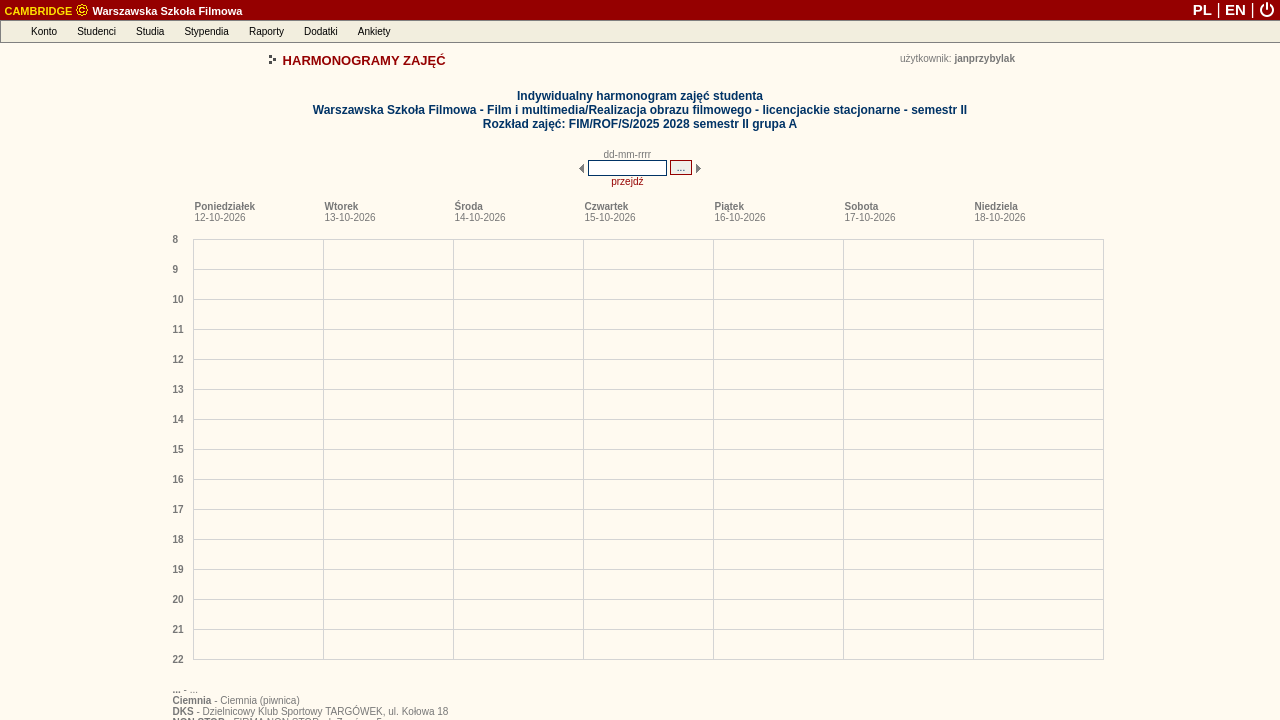
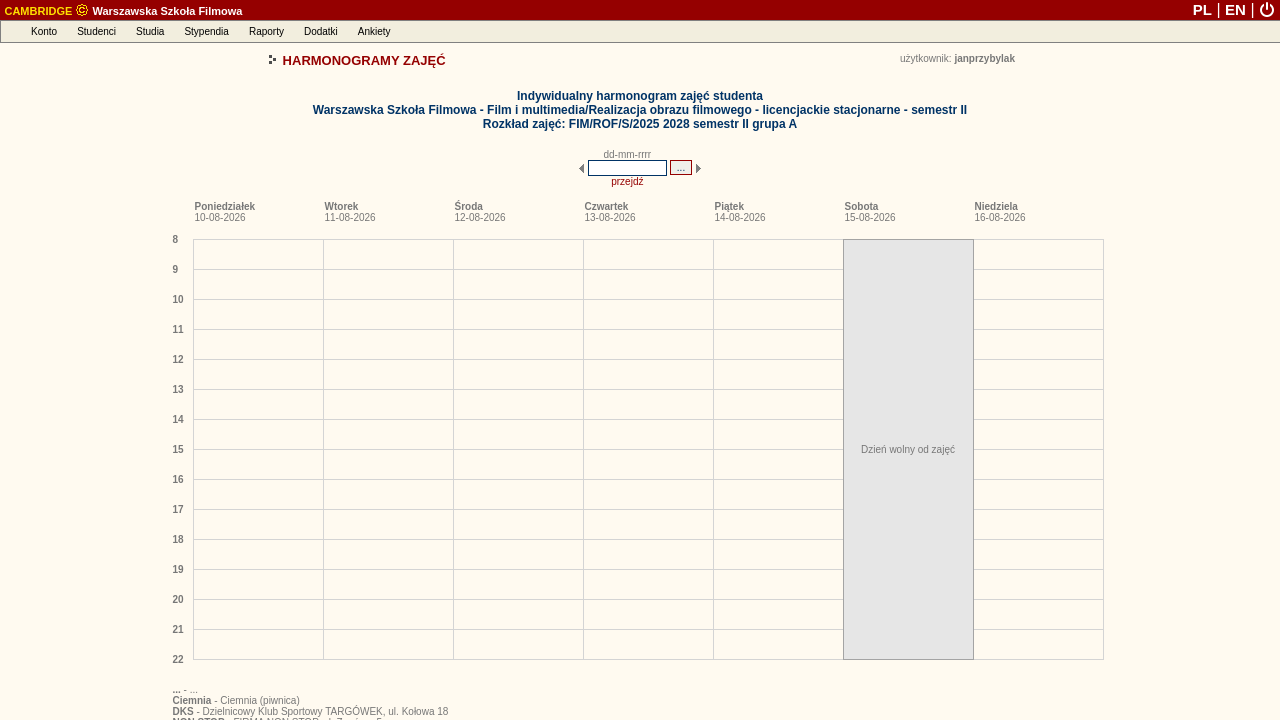
deploy: 8388f10947971c2f889917b94371ad6a4cd86213

Changed region(s): [[0.6562, 0.3056, 0.7812, 0.9167]]

diff --git a/debug_harmonogram_page.html b/debug_harmonogram_page.html
@@ -163,8 +163,8 @@
 
 
 
-<link rel="stylesheet" type="text/css" href="/palio/html.run?_Instance=cambridge&amp;_PageID=4&amp;_SessionID=1727084&amp;_SessionKey=201555191&amp;ZoomView=&amp;DisplayMode=&amp;_CheckSum=2033157716">
-<script language="javascript" type="text/javascript" src="/palio/html.run?_Instance=cambridge&amp;_PageID=5&amp;_SessionID=1727084&amp;_SessionKey=201555191&amp;_CheckSum=-705604010"></script>
+<link rel="stylesheet" type="text/css" href="/palio/html.run?_Instance=cambridge&amp;_PageID=4&amp;_SessionID=1727158&amp;_SessionKey=1953367357&amp;ZoomView=&amp;DisplayMode=&amp;_CheckSum=-1352251698">
+<script language="javascript" type="text/javascript" src="/palio/html.run?_Instance=cambridge&amp;_PageID=5&amp;_SessionID=1727158&amp;_SessionKey=1953367357&amp;_CheckSum=1512590138"></script>
 
 
 
@@ -354,9 +354,9 @@ CambridgeMenuBar = new jsDOMenuBar("absolute", true)
 
 AccountMenu=new jsDOMenu(200, "", "absolute", false);
 
-AccountMenu.addMenuItem(new menuItem("Zmiana hasła", "", "/palio/html.run?_Instance=cambridge&amp;_PageID=11&amp;_SessionID=1727084&amp;_SessionKey=201555191&amp;_CheckSum=1992248005"));
+AccountMenu.addMenuItem(new menuItem("Zmiana hasła", "", "/palio/html.run?_Instance=cambridge&amp;_PageID=11&amp;_SessionID=1727158&amp;_SessionKey=1953367357&amp;_CheckSum=-753343317"));
 
-  AccountMenu.addMenuItem(new menuItem("Komunikator", "", "/palio/html.run?_Instance=cambridge&amp;_PageID=180&amp;_SessionID=1727084&amp;_SessionKey=201555191&amp;_CheckSum=-666117750"));
+  AccountMenu.addMenuItem(new menuItem("Komunikator", "", "/palio/html.run?_Instance=cambridge&amp;_PageID=180&amp;_SessionID=1727158&amp;_SessionKey=1953367357&amp;_CheckSum=-1558303098"));
 
 
 
@@ -369,7 +369,7 @@ AccountMenu.addMenuItem(new menuItem("Yammer", "", "https://www.yammer.com/onlin
 
 AccountMenu.addMenuItem(new menuItem("-"));
 
-AccountMenu.addMenuItem(new menuItem("Wylogowanie", "", "https://student.szkolafilmowa.pl/palio/html.run?_Instance=cambridge&amp;_PageID=10012&amp;_Action=Logout&amp;_SessionID=1727084&amp;_SessionKey=201555191"));
+AccountMenu.addMenuItem(new menuItem("Wylogowanie", "", "https://student.szkolafilmowa.pl/palio/html.run?_Instance=cambridge&amp;_PageID=10012&amp;_Action=Logout&amp;_SessionID=1727158&amp;_SessionKey=1953367357"));
 
 CambridgeMenuBar.addMenuBarItem(new menuBarItem("Konto", AccountMenu));
 
@@ -382,12 +382,12 @@ StudentsMenu=new jsDOMenu(320, "", "absolute", false);
 
 
 
-StudentsMenu.addMenuItem(new menuItem("Moje dane", "", "/palio/html.run?_Instance=cambridge&amp;_PageID=185&amp;_SessionID=1727084&amp;_SessionKey=201555191&amp;_CheckSum=-1808791921"));
+StudentsMenu.addMenuItem(new menuItem("Moje dane", "", "/palio/html.run?_Instance=cambridge&amp;_PageID=185&amp;_SessionID=1727158&amp;_SessionKey=1953367357&amp;_CheckSum=1673503265"));
 
 
 
 
-StudentsMenu.addMenuItem(new menuItem("Moje indeksy", "", "/palio/html.run?_Instance=cambridge&amp;_PageID=186&amp;_SessionID=1727084&amp;_SessionKey=201555191&amp;_CheckSum=-1178333296"));
+StudentsMenu.addMenuItem(new menuItem("Moje indeksy", "", "/palio/html.run?_Instance=cambridge&amp;_PageID=186&amp;_SessionID=1727158&amp;_SessionKey=1953367357&amp;_CheckSum=-257115840"));
 
 
 
@@ -426,7 +426,7 @@ StudiesMenu=new jsDOMenu(250, "", "absolute", false);
 
 
 
-StudiesMenu.addMenuItem(new menuItem("Moje plany studiów", "", "/palio/html.run?_Instance=cambridge&amp;_PageID=258&amp;_SessionID=1727084&amp;_SessionKey=201555191&amp;_CheckSum=1859823862"));
+StudiesMenu.addMenuItem(new menuItem("Moje plany studiów", "", "/palio/html.run?_Instance=cambridge&amp;_PageID=258&amp;_SessionID=1727158&amp;_SessionKey=1953367357&amp;_CheckSum=-563524454"));
 
 
 
@@ -434,13 +434,13 @@ StudiesMenu.addMenuItem(new menuItem("Moje plany studiów", "", "/palio/html.run
 
 
 
-StudiesMenu.addMenuItem(new menuItem("Harmonogramy zajęć", "", "/palio/html.run?_Instance=cambridge&amp;_PageID=95&amp;_SessionID=1727084&amp;_SessionKey=201555191&amp;_CheckSum=1954031553"));
+StudiesMenu.addMenuItem(new menuItem("Harmonogramy zajęć", "", "/palio/html.run?_Instance=cambridge&amp;_PageID=95&amp;_SessionID=1727158&amp;_SessionKey=1953367357&amp;_CheckSum=-1938053329"));
 
-StudiesMenu.addMenuItem(new menuItem("Harmonogramy moich zajęć", "", "/palio/html.run?_Instance=cambridge&amp;_PageID=191&amp;_SessionID=1727084&amp;_SessionKey=201555191&amp;_CheckSum=-1966278230"));
+StudiesMenu.addMenuItem(new menuItem("Harmonogramy moich zajęć", "", "/palio/html.run?_Instance=cambridge&amp;_PageID=191&amp;_SessionID=1727158&amp;_SessionKey=1953367357&amp;_CheckSum=1086394982"));
 
-StudiesMenu.addMenuItem(new menuItem("Harmonogramy innych zajęć", "", "/palio/html.run?_Instance=cambridge&amp;_PageID=248&amp;_SessionID=1727084&amp;_SessionKey=201555191&amp;_CheckSum=-504524329"));
+StudiesMenu.addMenuItem(new menuItem("Harmonogramy innych zajęć", "", "/palio/html.run?_Instance=cambridge&amp;_PageID=248&amp;_SessionID=1727158&amp;_SessionKey=1953367357&amp;_CheckSum=-843874343"));
 
-StudiesMenu.addMenuItem(new menuItem("Harmonogramy zajętości sal", "", "/palio/html.run?_Instance=cambridge&amp;_PageID=269&amp;_SessionID=1727084&amp;_SessionKey=201555191&amp;_CheckSum=559663382"));
+StudiesMenu.addMenuItem(new menuItem("Harmonogramy zajętości sal", "", "/palio/html.run?_Instance=cambridge&amp;_PageID=269&amp;_SessionID=1727158&amp;_SessionKey=1953367357&amp;_CheckSum=2081173626"));
 
 
 
@@ -470,9 +470,9 @@ CambridgeMenuBar.addMenuBarItem(new menuBarItem("Studia", StudiesMenu));
 ScholarshipsMenu=new jsDOMenu(230, "", "absolute", false);
 
 
-ScholarshipsMenu.addMenuItem(new menuItem("Moje stypendia", "", "/palio/html.run?_Instance=cambridge&amp;_PageID=187&amp;_SessionID=1727084&amp;_SessionKey=201555191&amp;_CheckSum=-547874671"));
+ScholarshipsMenu.addMenuItem(new menuItem("Moje stypendia", "", "/palio/html.run?_Instance=cambridge&amp;_PageID=187&amp;_SessionID=1727158&amp;_SessionKey=1953367357&amp;_CheckSum=2107232351"));
 
-ScholarshipsMenu.addMenuItem(new menuItem("Mój numer rachunku", "", "/palio/html.run?_Instance=cambridge&amp;_PageID=380&amp;_SessionID=1727084&amp;_SessionKey=201555191&amp;_CheckSum=-105417972"));
+ScholarshipsMenu.addMenuItem(new menuItem("Mój numer rachunku", "", "/palio/html.run?_Instance=cambridge&amp;_PageID=380&amp;_SessionID=1727158&amp;_SessionKey=1953367357&amp;_CheckSum=-1356479164"));
 
 
 
@@ -482,9 +482,9 @@ ScholarshipsMenu.addMenuItem(new menuItem("Mój numer rachunku", "", "/palio/htm
 ScholarshipsMenu.addMenuItem(new menuItem("-"));
 
 
-ScholarshipsMenu.addMenuItem(new menuItem("Fundusze stypendialne", "", "/palio/html.run?_Instance=cambridge&amp;_PageID=54&amp;_SessionID=1727084&amp;_SessionKey=201555191&amp;_CheckSum=456114756"));
+ScholarshipsMenu.addMenuItem(new menuItem("Fundusze stypendialne", "", "/palio/html.run?_Instance=cambridge&amp;_PageID=54&amp;_SessionID=1727158&amp;_SessionKey=1953367357&amp;_CheckSum=-1128833780"));
 
-ScholarshipsMenu.addMenuItem(new menuItem("Rodzaje stypendiów", "", "/palio/html.run?_Instance=cambridge&amp;_PageID=55&amp;_SessionID=1727084&amp;_SessionKey=201555191&amp;_CheckSum=1086573381"));
+ScholarshipsMenu.addMenuItem(new menuItem("Rodzaje stypendiów", "", "/palio/html.run?_Instance=cambridge&amp;_PageID=55&amp;_SessionID=1727158&amp;_SessionKey=1953367357&amp;_CheckSum=1235514411"));
 
 
 
@@ -495,7 +495,7 @@ CambridgeMenuBar.addMenuBarItem(new menuBarItem("Stypendia", ScholarshipsMenu));
 ReportsMenu=new jsDOMenu(200, "", "absolute", false);
 
 
-ReportsMenu.addMenuItem(new menuItem("Generowanie raportów", "", "/palio/html.run?_Instance=cambridge&amp;_PageID=68&amp;_SessionID=1727084&amp;_SessionKey=201555191&amp;_CheckSum=1047330151"));
+ReportsMenu.addMenuItem(new menuItem("Generowanie raportów", "", "/palio/html.run?_Instance=cambridge&amp;_PageID=68&amp;_SessionID=1727158&amp;_SessionKey=1953367357&amp;_CheckSum=18974281"));
 
 
 
@@ -505,7 +505,7 @@ CambridgeMenuBar.addMenuBarItem(new menuBarItem("Raporty", ReportsMenu));
 
 AdditionalsMenu=new jsDOMenu(200, "", "absolute", false);
 
-AdditionalsMenu.addMenuItem(new menuItem("Forum internetowe", "", "/palio/html.run?_Instance=cambridge&amp;_PageID=8001&amp;_SessionID=1727084&amp;_SessionKey=201555191&amp;_CheckSum=-1747602402"));
+AdditionalsMenu.addMenuItem(new menuItem("Forum internetowe", "", "/palio/html.run?_Instance=cambridge&amp;_PageID=8001&amp;_SessionID=1727158&amp;_SessionKey=1953367357&amp;_CheckSum=-724588942"));
 
 
 
@@ -539,7 +539,7 @@ PollsMenu=new jsDOMenu(225, "", "absolute", false);
 
 
 
-PollsMenu.addMenuItem(new menuItem("Wypełnianie ankiet", "", "/palio/html.run?_Instance=cambridge&amp;_PageID=227&amp;_SessionID=1727084&amp;_SessionKey=201555191&amp;_CheckSum=-1568712040"));
+PollsMenu.addMenuItem(new menuItem("Wypełnianie ankiet", "", "/palio/html.run?_Instance=cambridge&amp;_PageID=227&amp;_SessionID=1727158&amp;_SessionKey=1953367357&amp;_CheckSum=526044984"));
 
 
 CambridgeMenuBar.addMenuBarItem(new menuBarItem("Ankiety", PollsMenu));
@@ -576,7 +576,7 @@ CambridgeMenuBar.moveTo(0,20);
 <table width="100%" border="0" cellspacing="0" cellpadding="0" align="center">
 <tbody><tr class="top_belt">
 
-<td align="left" height="20"><b>&nbsp;<a class="belt" href="/palio/html.run?_Instance=cambridge&amp;_PageID=6&amp;_SessionID=1727084&amp;_SessionKey=201555191&amp;_CheckSum=-75145385"><span class="belt_application">CAMBRIDGE</span> <img src="/palio/html.media?_Instance=cambridge&amp;_Option=Palio&amp;_ID=51&amp;_CheckSum=684598873" width="14" height="14" border="0" style="position:relative;top:-2px;vertical-align:bottom"> Warszawska Szkoła Filmowa</a></b></td>
+<td align="left" height="20"><b>&nbsp;<a class="belt" href="/palio/html.run?_Instance=cambridge&amp;_PageID=6&amp;_SessionID=1727158&amp;_SessionKey=1953367357&amp;_CheckSum=-418028967"><span class="belt_application">CAMBRIDGE</span> <img src="/palio/html.media?_Instance=cambridge&amp;_Option=Palio&amp;_ID=51&amp;_CheckSum=684598873" width="14" height="14" border="0" style="position:relative;top:-2px;vertical-align:bottom"> Warszawska Szkoła Filmowa</a></b></td>
 <td align="right">
 
 
@@ -587,13 +587,13 @@ CambridgeMenuBar.moveTo(0,20);
 
 
 
-<a href="/palio/html.run?_Instance=cambridge&amp;_PageID=6&amp;_SessionID=1727084&amp;_SessionKey=201555191&amp;SetLanguage=pl&amp;_CheckSum=1969840483" class="belt" style="font-size:15px;line-height:18px;text-decoration:none" title="polski"><b>PL</b></a>
+<a href="/palio/html.run?_Instance=cambridge&amp;_PageID=6&amp;_SessionID=1727158&amp;_SessionKey=1953367357&amp;SetLanguage=pl&amp;_CheckSum=-190829791" class="belt" style="font-size:15px;line-height:18px;text-decoration:none" title="polski"><b>PL</b></a>
 <span class="belt" style="font-size:16px">|</span>
-<a href="/palio/html.run?_Instance=cambridge&amp;_PageID=6&amp;_SessionID=1727084&amp;_SessionKey=201555191&amp;SetLanguage=en&amp;_CheckSum=-432343530" class="belt" style="font-size:15px;line-height:18px;text-decoration:none" title="english"><b>EN</b></a>
+<a href="/palio/html.run?_Instance=cambridge&amp;_PageID=6&amp;_SessionID=1727158&amp;_SessionKey=1953367357&amp;SetLanguage=en&amp;_CheckSum=1701953492" class="belt" style="font-size:15px;line-height:18px;text-decoration:none" title="english"><b>EN</b></a>
 <span class="belt" style="font-size:16px">|</span>
 
 
-<img src="/palio/html.media?_Instance=cambridge&amp;_Option=Palio&amp;_ID=94&amp;_CheckSum=-1316787974" style="cursor:pointer;vertical-align:bottom;margin-bottom:2px;margin-right:5px" alt="Wyloguj" title="Wyloguj" onclick="if(confirm('Czy na pewno chcesz się wylogować?'))window.location='https://student.szkolafilmowa.pl/palio/html.run?_Instance=cambridge&amp;_PageID=10012&amp;_Action=Logout&amp;_SessionID=1727084&amp;_SessionKey=201555191'">
+<img src="/palio/html.media?_Instance=cambridge&amp;_Option=Palio&amp;_ID=94&amp;_CheckSum=-1316787974" style="cursor:pointer;vertical-align:bottom;margin-bottom:2px;margin-right:5px" alt="Wyloguj" title="Wyloguj" onclick="if(confirm('Czy na pewno chcesz się wylogować?'))window.location='https://student.szkolafilmowa.pl/palio/html.run?_Instance=cambridge&amp;_PageID=10012&amp;_Action=Logout&amp;_SessionID=1727158&amp;_SessionKey=1953367357'">
 </td>
 
 </tr>
@@ -2351,16 +2351,16 @@ document.schedule_scroll_form.submit();
 }
 function goForward()
 {
-document.schedule_scroll_form._firstDayOfWeek.value = '19-10-2026';
+document.schedule_scroll_form._firstDayOfWeek.value = '17-08-2026';
 document.schedule_scroll_form.submit();
 }
 function goBackward()
 {
-document.schedule_scroll_form._firstDayOfWeek.value = '10-10-2026';
+document.schedule_scroll_form._firstDayOfWeek.value = '08-08-2026';
 document.schedule_scroll_form.submit();
 }
 </script>
-<form method="post" name="schedule_scroll_form" id="schedule_scroll_form" action="/palio/html.run?_Instance=cambridge&amp;_PageID=191&amp;_SessionID=1727084&amp;_SessionKey=201555191&amp;_RowID=7265&amp;_RowIDType=I&amp;_CheckSum=1016680183" onsubmit="return checkFrm_schedule_scroll_form(this)">
+<form method="post" name="schedule_scroll_form" id="schedule_scroll_form" action="/palio/html.run?_Instance=cambridge&amp;_PageID=191&amp;_SessionID=1727158&amp;_SessionKey=1953367357&amp;_RowID=7265&amp;_RowIDType=I&amp;_CheckSum=-220447301" onsubmit="return checkFrm_schedule_scroll_form(this)">
 <div style="display:none;"><input type="hidden" name="_formSubmitted" value="yes"></div>
 <input type="hidden" name="_firstDayOfWeek">
 <table cellspacing="0" cellpadding="0" border="0" align="center">
@@ -3202,6 +3202,22 @@ return true;
 
 
 
+
+
+
+
+
+
+
+
+
+
+
+
+
+
+
+
 <br>
 
 
@@ -3213,6 +3229,9 @@ return true;
 
 
 
+ 
+ 
+ 
 
 
 
@@ -3265,6 +3284,52 @@ return true;
 
 
 
+
+
+
+
+
+
+
+
+
+
+
+
+
+
+
+
+
+
+
+
+
+
+
+
+
+
+
+
+
+
+
+
+
+
+
+
+
+
+
+
+
+
+
+
+
+  
 
 
 
@@ -3723,7 +3788,7 @@ tipDivElement.style.visibility="hidden"
 <tbody><tr><td class="font">
 <b class="font">Poniedziałek</b><br>
 
-<span class="font">12-10-2026</span>
+<span class="font">10-08-2026</span>
 </td></tr>
 </tbody></table>
 </div>
@@ -3738,7 +3803,7 @@ tipDivElement.style.visibility="hidden"
 <tbody><tr><td class="font">
 <b class="font">Wtorek</b><br>
 
-<span class="font">13-10-2026</span>
+<span class="font">11-08-2026</span>
 </td></tr>
 </tbody></table>
 </div>
@@ -3753,7 +3818,7 @@ tipDivElement.style.visibility="hidden"
 <tbody><tr><td class="font">
 <b class="font">Środa</b><br>
 
-<span class="font">14-10-2026</span>
+<span class="font">12-08-2026</span>
 </td></tr>
 </tbody></table>
 </div>
@@ -3768,7 +3833,7 @@ tipDivElement.style.visibility="hidden"
 <tbody><tr><td class="font">
 <b class="font">Czwartek</b><br>
 
-<span class="font">15-10-2026</span>
+<span class="font">13-08-2026</span>
 </td></tr>
 </tbody></table>
 </div>
@@ -3783,7 +3848,7 @@ tipDivElement.style.visibility="hidden"
 <tbody><tr><td class="font">
 <b class="font">Piątek</b><br>
 
-<span class="font">16-10-2026</span>
+<span class="font">14-08-2026</span>
 </td></tr>
 </tbody></table>
 </div>
@@ -3798,7 +3863,7 @@ tipDivElement.style.visibility="hidden"
 <tbody><tr><td class="font">
 <b class="font">Sobota</b><br>
 
-<span class="font">17-10-2026</span>
+<span class="font">15-08-2026</span>
 </td></tr>
 </tbody></table>
 </div>
@@ -3813,7 +3878,7 @@ tipDivElement.style.visibility="hidden"
 <tbody><tr><td class="font">
 <b class="font">Niedziela</b><br>
 
-<span class="font">18-10-2026</span>
+<span class="font">16-08-2026</span>
 </td></tr>
 </tbody></table>
 </div>
@@ -3822,6 +3887,34 @@ tipDivElement.style.visibility="hidden"
 
 
 
+
+
+
+
+
+
+
+
+
+
+
+
+
+
+<div style="
+position:absolute;
+top:0;
+left:670;
+width:129;
+height:419.00;
+layer-background-color:#E6E6E6;
+background-color:#E6E6E6;
+border:1px solid #A4A4A4;
+z-index:0;">
+<table cellspacing="0" cellpadding="0" align="center" width="129">
+<tbody><tr><td width="129" align="center" class="font" valign="middle" height="419.00">Dzień wolny od zajęć</td></tr>
+</tbody></table>
+</div>
 
 
 </div>
@@ -3848,8 +3941,8 @@ tipDivElement.style.visibility="hidden"
 <td align="right">
 <table cellspacing="0" cellpadding="2" border="0">
 <tbody><tr>
-<td valign="middle"><a class="link" href="/palio/html.run?_Instance=cambridge&amp;_PageID=96&amp;_SessionID=1727084&amp;_SessionKey=201555191&amp;_RowID=7265&amp;_RowIDType=I&amp;_firstDayOfWeek=12-10-2026&amp;_CheckSum=1509715919" target="_blank">drukuj</a></td>
-<td valign="middle"><a class="link" href="/palio/html.run?_Instance=cambridge&amp;_PageID=96&amp;_SessionID=1727084&amp;_SessionKey=201555191&amp;_RowID=7265&amp;_RowIDType=I&amp;_firstDayOfWeek=12-10-2026&amp;_CheckSum=1509715919" target="_blank"><img src="/palio/html.media?_Instance=cambridge&amp;_Option=Palio&amp;_ID=26&amp;_CheckSum=1936112049" awidth="16" height="14" alt="drukuj" title="drukuj" border="0"></a></td>
+<td valign="middle"><a class="link" href="/palio/html.run?_Instance=cambridge&amp;_PageID=96&amp;_SessionID=1727158&amp;_SessionKey=1953367357&amp;_RowID=7265&amp;_RowIDType=I&amp;_firstDayOfWeek=10-08-2026&amp;_CheckSum=-1036170234" target="_blank">drukuj</a></td>
+<td valign="middle"><a class="link" href="/palio/html.run?_Instance=cambridge&amp;_PageID=96&amp;_SessionID=1727158&amp;_SessionKey=1953367357&amp;_RowID=7265&amp;_RowIDType=I&amp;_firstDayOfWeek=10-08-2026&amp;_CheckSum=-1036170234" target="_blank"><img src="/palio/html.media?_Instance=cambridge&amp;_Option=Palio&amp;_ID=26&amp;_CheckSum=1936112049" awidth="16" height="14" alt="drukuj" title="drukuj" border="0"></a></td>
 </tr>
 </tbody></table>
 </td>
@@ -3881,7 +3974,7 @@ tipDivElement.style.visibility="hidden"
 
 
 
-<input type="button" name="jump_action" value="Powrót do listy harmonogramów zajęć" class="button" onclick="window.location='/palio/html.run?_Instance=cambridge&amp;_PageID=191&amp;_SessionID=1727084&amp;_SessionKey=201555191&amp;_CheckSum=-1966278230'">
+<input type="button" name="jump_action" value="Powrót do listy harmonogramów zajęć" class="button" onclick="window.location='/palio/html.run?_Instance=cambridge&amp;_PageID=191&amp;_SessionID=1727158&amp;_SessionKey=1953367357&amp;_CheckSum=1086394982'">
 
 
 
@@ -3906,7 +3999,7 @@ tipDivElement.style.visibility="hidden"
 grayscaleImagesIE10Plus();
 </script>
 
-<p align="right" class="font"><i style="color:#aaaaaa">Czas generowania strony 124 ms</i></p>
+<p align="right" class="font"><i style="color:#aaaaaa">Czas generowania strony 128 ms</i></p>
 
 
 </body></html>
